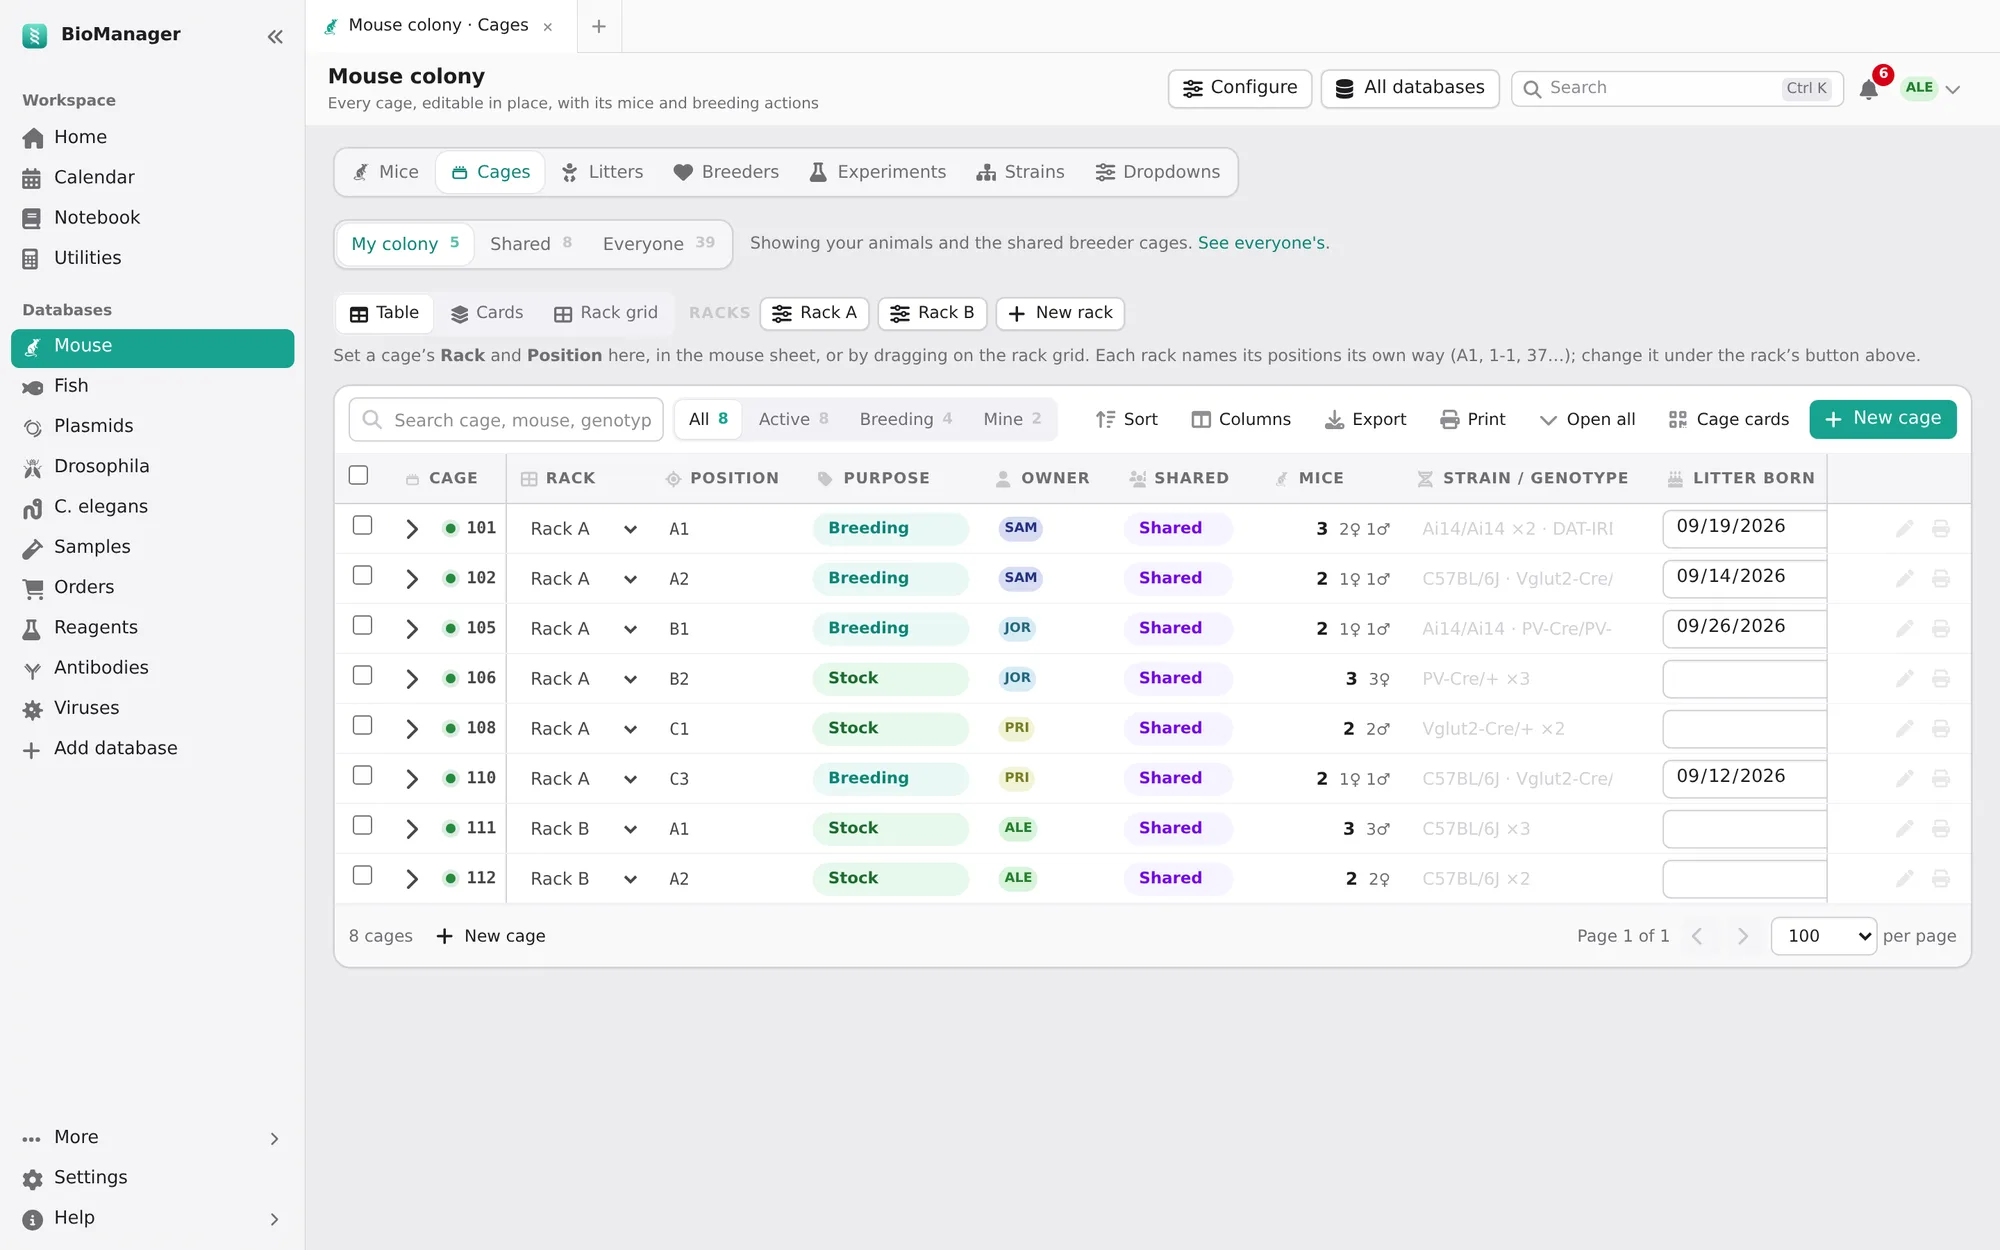
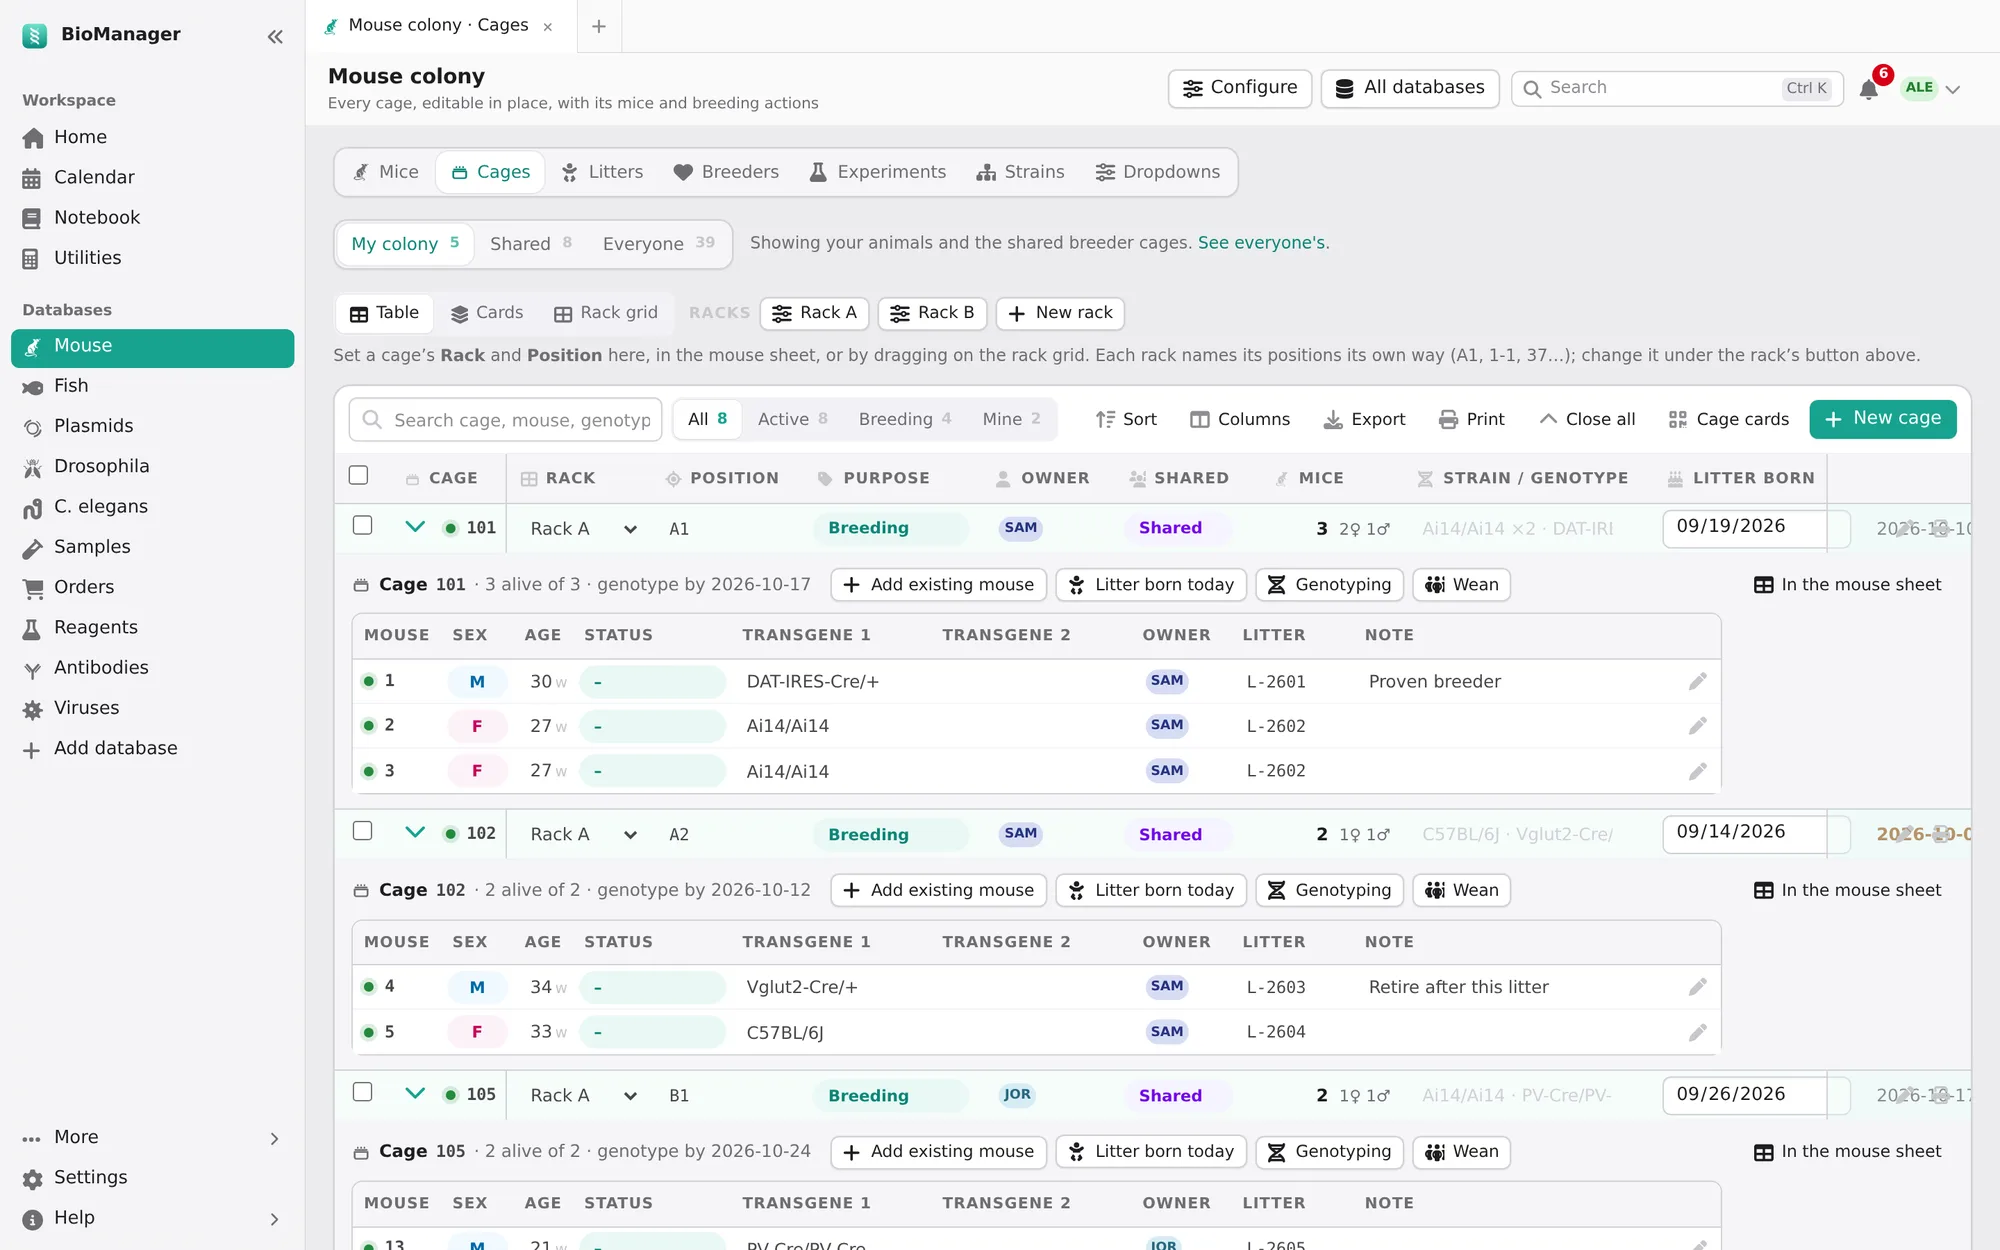
Cages open by default, with their mice beneath them
Each cage on the Cages table now shows open, its mice and actions
beneath its row, as the old card list did. Close all folds every cage to
its row and is remembered on that computer; Open all opens them again,
and the arrow, number or mice count still opens or closes one.

Claude-Session: https://claude.ai/code/session_01F3KD7LCgyD4Lfny4qDkzLa

diff --git a/app/templates/colony.html b/app/templates/colony.html
@@ -496,8 +496,8 @@
               </div>
               <div class="dt-toolbar-spacer"></div>
               {{ sheet_ui.tools() }}
-              <button type="button" class="dt-toolbar-btn" data-cage-expand-all aria-pressed="false"
-                      title="Show the mice of every cage on this page">{{ icon('chevron-down') }} <span>Open all</span></button>
+              <button type="button" class="dt-toolbar-btn" data-cage-expand-all aria-pressed="true"
+                      title="Fold every cage to its row, or open them all again">{{ icon('chevron-down') }} <span>Close all</span></button>
               <a class="dt-toolbar-btn" href="{{ url_for('labels.cage_cards', scope=scope) }}"
                  title="Printable cards for the cages in this scope">{{ icon('qrcode') }} Cage cards</a>
               <button type="button" class="btn btn-primary" data-record-edit="cage-dialog"
@@ -566,12 +566,12 @@
                         data-wean_due="{{ cage.wean_due }}"
                         data-mouse-ids="{{ cage.mice|map(attribute='mouse_id')|join(' ') }}"
                         data-genotypes="{{ cage.genotype_auto }}"
-                        class="{% if not cage.active %}is-inactive{% endif %}{% if locked %} is-locked{% endif %}">
+                        class="is-expanded{% if not cage.active %} is-inactive{% endif %}{% if locked %} is-locked{% endif %}">
                       <td class="sheet-pin sheet-pin-0">
                         <input type="checkbox" data-select-row value="{{ cage.id }}" aria-label="Select cage {{ cage.cage_id }}">
                       </td>
                       <td class="sheet-pin sheet-pin-1 cage-id-cell">
-                        <button type="button" class="cage-expand" data-cage-expand="{{ cage.id }}" aria-expanded="false"
+                        <button type="button" class="cage-expand" data-cage-expand="{{ cage.id }}" aria-expanded="true"
                                 aria-controls="cage-detail-{{ cage.id }}" title="Show the mice in cage {{ cage.cage_id }}"
                                 aria-label="Show the mice in cage {{ cage.cage_id }}">{{ icon('chevron-right') }}</button>
                         {{ sheet_ui.id_cell(cage.cage_id, alive=cage.active, locked=locked, owner=cage.owner, noun='cage',
@@ -644,9 +644,10 @@
                         </div>
                       </td>
                     </tr>
-                    {# The cage's mice and its per-cage actions. It travels with
-                       its row when the sheet sorts or pages (data-detail-for). #}
-                    <tr class="cage-detail" id="cage-detail-{{ cage.id }}" data-detail-for="{{ cage.id }}" hidden>
+                    {# The cage's mice and its per-cage actions, open unless the
+                       person chose Close all. It travels with its row when the
+                       sheet sorts or pages (data-detail-for). #}
+                    <tr class="cage-detail" id="cage-detail-{{ cage.id }}" data-detail-for="{{ cage.id }}">
                       <td colspan="14">
                         <article class="cage-detail-body{% if locked %} is-locked{% endif %}" aria-label="Cage {{ cage.cage_id }}"
                                  data-cage-card="{{ cage.id }}" data-active="{{ 'true' if cage.active else 'false' }}"
@@ -2102,17 +2103,26 @@ function weanDue(born) {
     if (ident) toggle(ident.closest('tr').dataset.cageRowId);
   });
 
-  // Open all / Close all: every cage the sheet shows now (this page, this filter).
+  // Every cage shows open, with its mice, unless this person chose Close
+  // all (remembered on this computer). Open all / Close all sets every cage
+  // at once; the arrow, number or count still opens or closes one.
+  const OPEN_KEY = 'cages:open';
   const all = sheet.querySelector('[data-cage-expand-all]');
+  const setAll = (open) => {
+    sheet.querySelectorAll('tbody tr[data-cage-row-id]').forEach((row) => setOpen(row.dataset.cageRowId, open));
+    if (all) {
+      all.setAttribute('aria-pressed', open ? 'true' : 'false');
+      all.querySelector('span').textContent = open ? 'Close all' : 'Open all';
+    }
+  };
+  let startOpen = true;
+  try { startOpen = localStorage.getItem(OPEN_KEY) !== 'closed'; } catch (_) {}
+  if (!startOpen) setAll(false);
   if (all) {
     all.addEventListener('click', () => {
       const open = all.getAttribute('aria-pressed') !== 'true';
-      sheet.querySelectorAll('tbody tr[data-cage-row-id]').forEach((row) => {
-        if (!row.hidden && row.offsetParent !== null) setOpen(row.dataset.cageRowId, open);
-        else if (!open) setOpen(row.dataset.cageRowId, false);
-      });
-      all.setAttribute('aria-pressed', open ? 'true' : 'false');
-      all.querySelector('span').textContent = open ? 'Close all' : 'Open all';
+      setAll(open);
+      try { localStorage.setItem(OPEN_KEY, open ? 'open' : 'closed'); } catch (_) {}
     });
   }
 

diff --git a/site/guide.html b/site/guide.html
@@ -375,9 +375,9 @@
         <code>7D</code> or 1 to 80, like the stickers on your real racks. Cages without a position wait in <i>Unplaced</i>; drag them
         on. Each cage has a purpose (breeding, stock, experiments), an owner, a room and its mice. Select cages to set purpose or owner,
         move them, or <b>Retire</b> them.</p>
-      <p>The cages show three ways. <b>Table</b>: one row per cage; the arrow at the start of a row, the cage's number or its mice
-        count opens the cage beneath it, with its mice (edit them in place) and its actions, and <b>Open all</b> opens every cage on
-        the page. <b>Cards</b>: a card for each cage — where it is, its purpose, owner, strain and when to wean, its mice and the same
+      <p>The cages show three ways. <b>Table</b>: one row per cage, each with its mice beneath it (edit them in place) and its actions.
+        <b>Close all</b> folds every cage to its row (the page remembers), and <b>Open all</b> opens them again; the arrow at the
+        start of a row, the cage's number or its mice count opens or closes one. <b>Cards</b>: a card for each cage — where it is, its purpose, owner, strain and when to wean, its mice and the same
         actions — with its own search and <i>Active, Breeding, Mine</i> filters. <b>Rack grid</b>: the racks from the front. The page
         remembers the one you used last.</p>
       <figure class="gshot"><a href="assets/screenshots/rack-grid.webp" target="_blank" rel="noopener" title="Open full size"><img src="assets/screenshots/rack-grid.webp" alt="A rack grid" loading="lazy" width="2000" height="1250"></a><figcaption>A rack grid</figcaption></figure>

diff --git a/tests/test_cages.py b/tests/test_cages.py
@@ -387,7 +387,10 @@ class CageSheetTests(Case):
         first_cells = between(tr, 'sheet-pin-1', "</td>")
         self.assertIn(f'data-cage-expand="{cid}"', first_cells)
         self.assertIn(f'data-cage-open="{cid}"', tr)
-        self.assertIn("data-cage-expand-all", self.html)                   # Open all
+        self.assertIn("data-cage-expand-all", self.html)                   # Close all / Open all
+        # Each cage shows open, its mice beneath it, until someone chooses Close all.
+        self.assertIn(f'<tr class="cage-detail" id="cage-detail-{cid}" data-detail-for="{cid}">', self.html)
+        self.assertIn(f'data-cage-expand="{cid}" aria-expanded="true"', tr)
         # Cards: a layout beside Table and Rack grid; each cage's panel is a
         # card with what it is and its own buttons, and filters of its own.
         self.assertIn('data-layout="cards"', self.html)

diff --git a/README.md b/README.md
@@ -91,9 +91,9 @@ The most complete module, built around how a mouse room actually works.
   green dot shows which is which.
 - **Cages** — every cage with its rack position, purpose, owner, the mice
   inside (with the sex breakdown), litter born and the P21 weaning date.
-  Open a cage (its arrow, number or mice count, or **Open all**) to edit
-  its mice right there and wean, or switch to **Cards**: a card per cage
-  with its mice and its actions, as on a rack.
+  Each cage shows its mice beneath it, to edit right there and wean
+  (**Close all** folds them to one row each), or switch to **Cards**: a
+  card per cage with its mice and its actions, as on a rack.
 - **Litters** — record a birth once, and the weaning date (P21) and
   genotyping date (about P28) follow from it. **Wean** starts filled with
   the cage's pups, females and males apart; weaning before P18 asks first,

diff --git a/docs/DEVELOPMENT.md b/docs/DEVELOPMENT.md
@@ -883,8 +883,9 @@ revision 0006); a swap on the rack grid moves the cages in steps.
 **The Cages tab's three layouts.** `view_switch(..., cards_label=)` in
 `_rack_grid.html` adds a Cards button; `rack-grid.js` shows one
 `data-layout-panel` and fires `layout:change` on the scope. Each cage's
-panel (`article[data-cage-card]` in its `tr.cage-detail`, opened by the
-row's arrow, number or mice count) is also its card: while Cards is
+panel (`article[data-cage-card]` in its `tr.cage-detail`, drawn open; Close
+all is remembered as `cages:open` in `localStorage`, and the row's arrow,
+number or mice count opens or closes one) is also its card: while Cards is
 shown, `colony.html` moves the articles into `[data-cage-cards]` (marked
 `data-autosave-sheet`, so `sheet.js` saves their fields as before) and
 back into their rows for the table, so nothing is rendered twice. A
